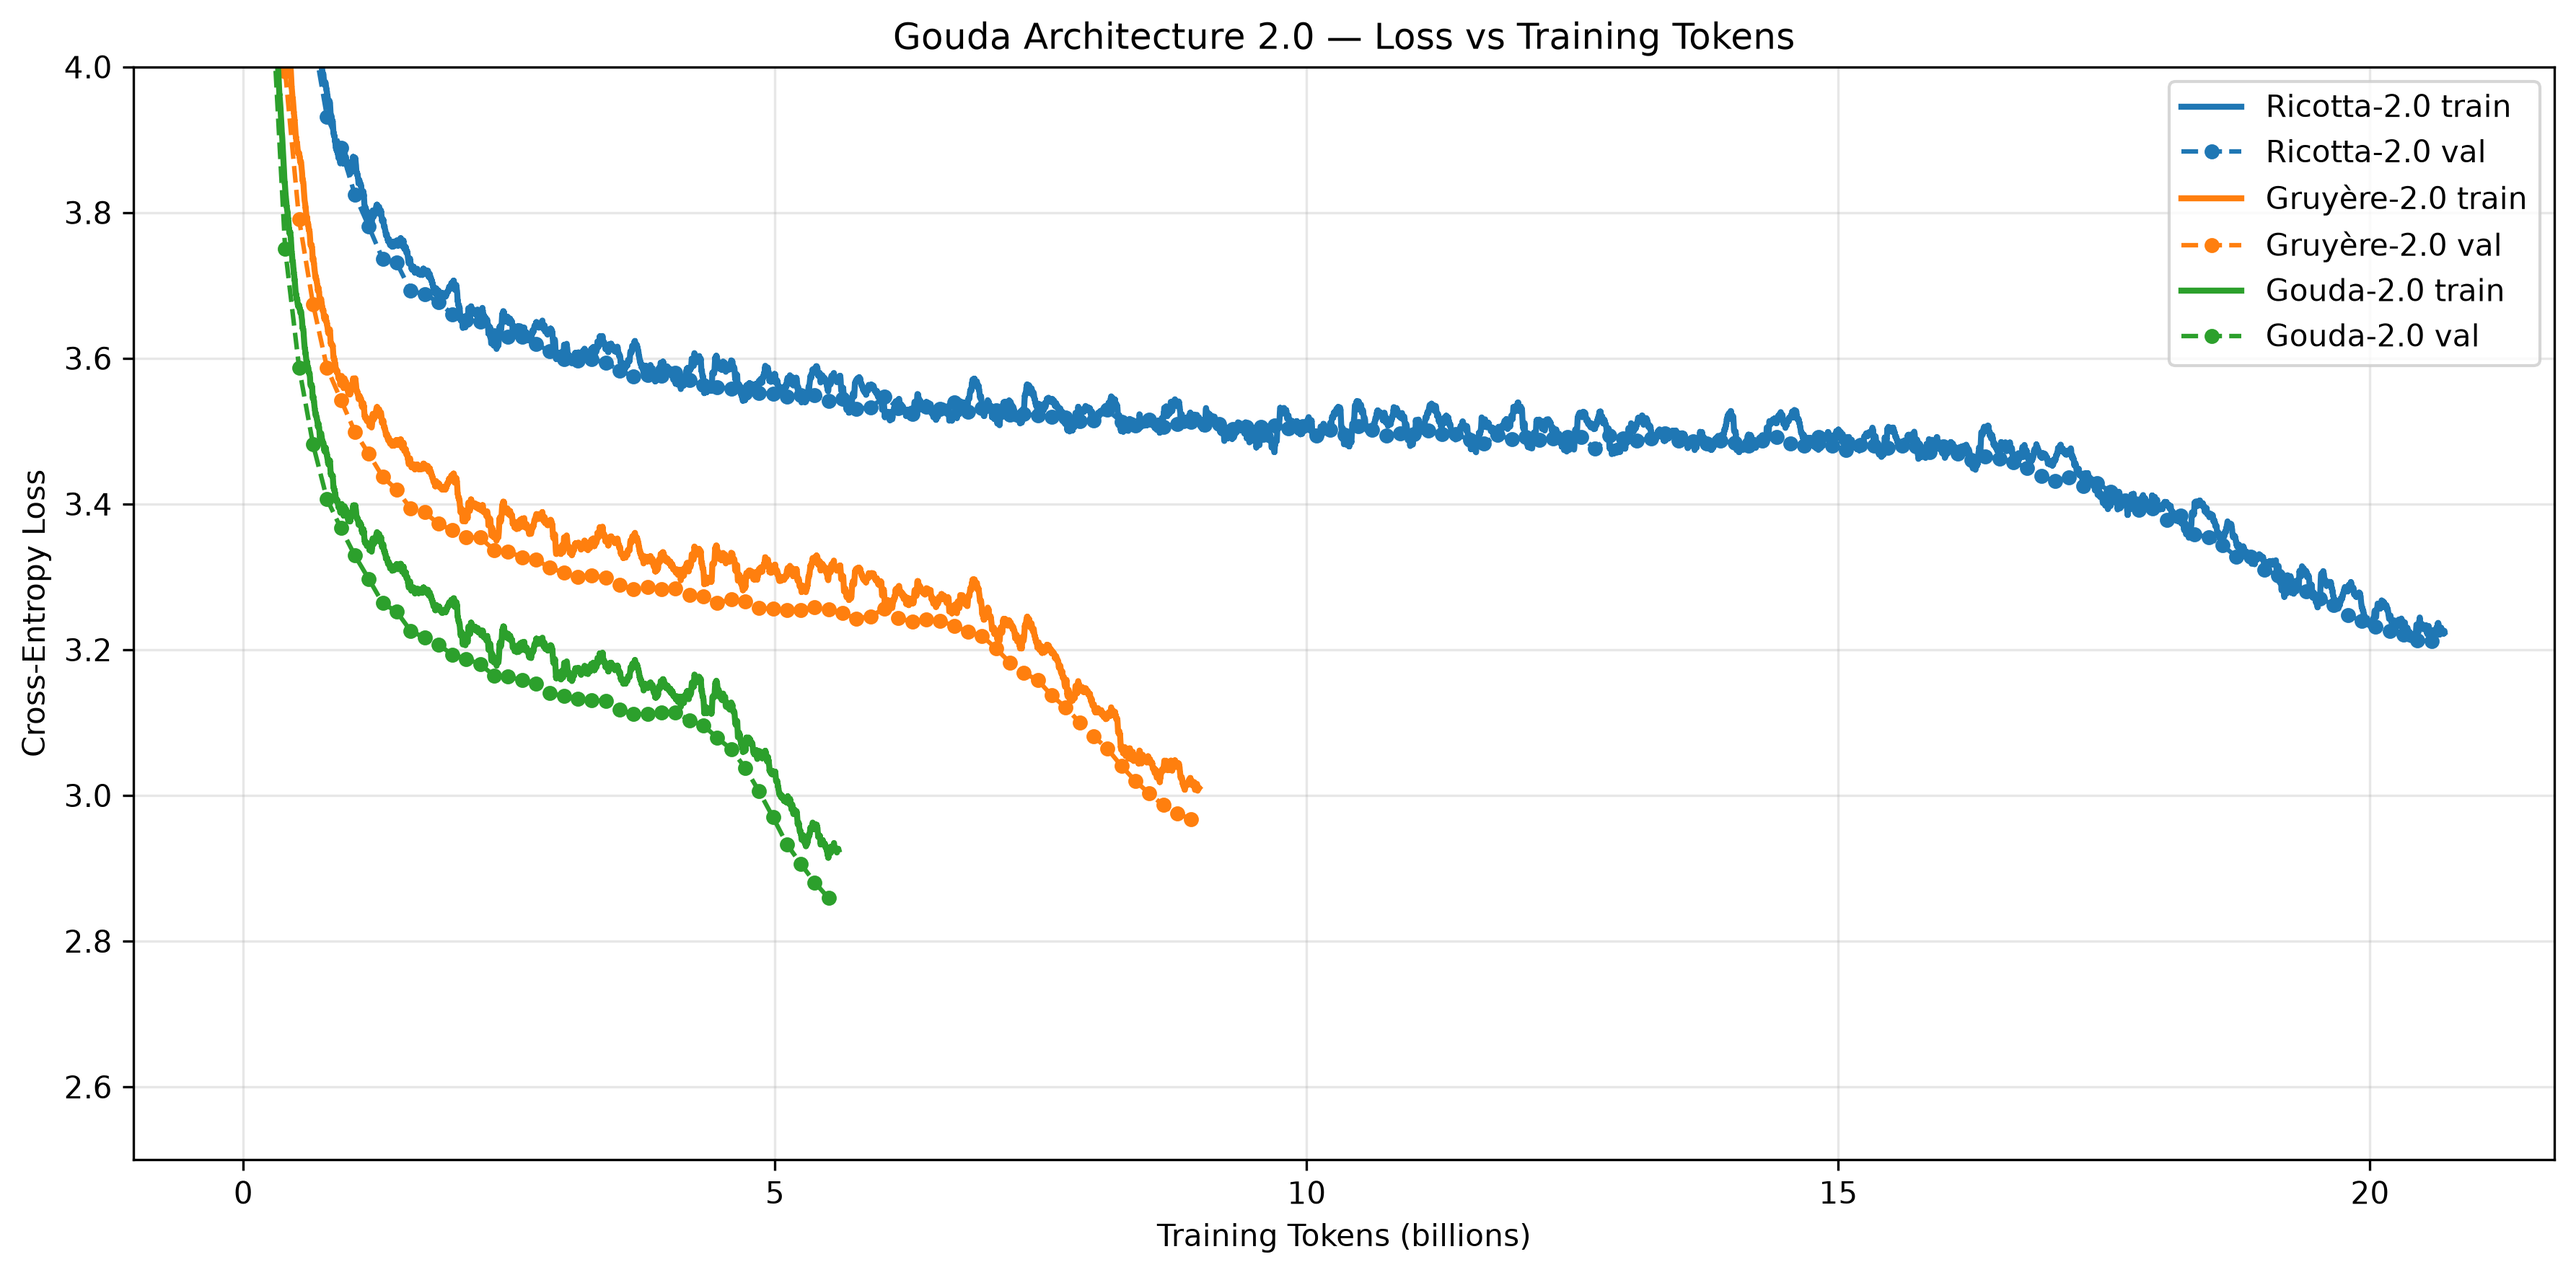
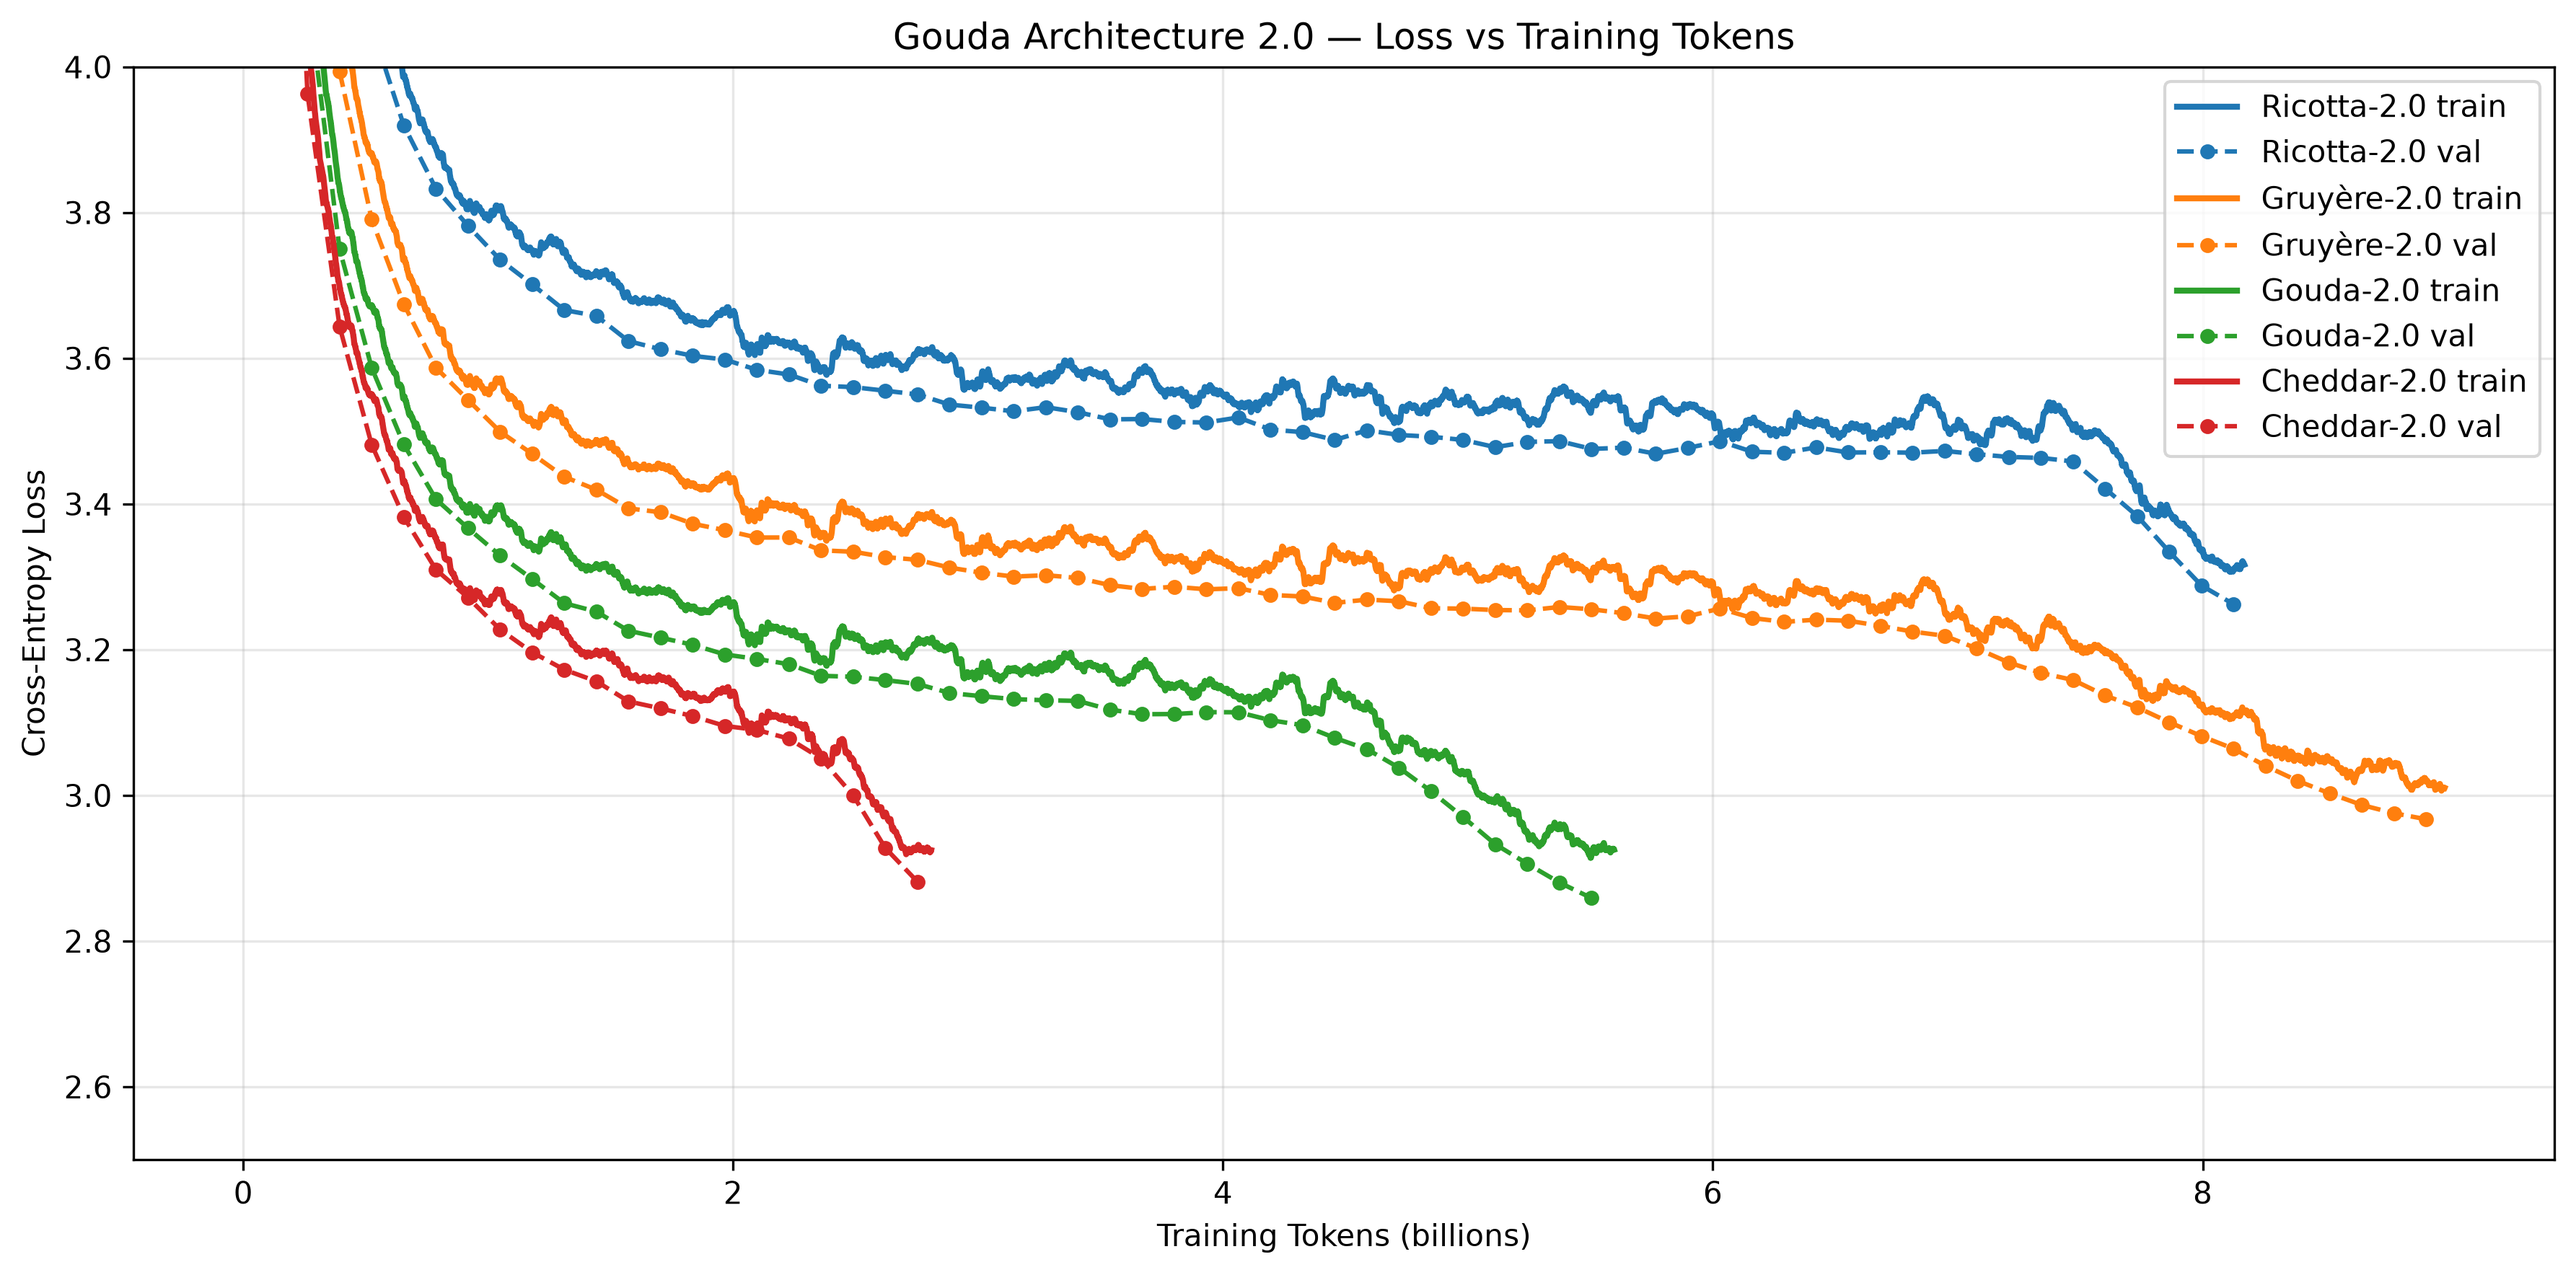
updated loss.py to include cheddar

Changed region(s): [[0.0933, 0.0311, 0.9636, 0.7155], [0.8393, 0.0622, 0.9947, 0.3422]]

diff --git a/loss.py b/loss.py
@@ -5,6 +5,7 @@ import matplotlib.pyplot as plt
 RICOTTA_LOG = 'runs/ricotta-2.0/r1-wsd10(minlr0.1)/ricotta_2_0/train.log'
 GRUYERE_LOG = 'runs/gruyere-2.0/r1/gruyere_2_0/train.log'
 GOUDA_LOG = 'runs/gouda-2.0/r1/gouda_2_0/train.log'
+CHEDDAR_LOG = 'runs/cheddar-2.0/r1/cheddar_2_0/train.log'
 OUTPUT_FILE = "loss_comparison.png"
 
 SMOOTHING_WINDOW = 100
@@ -17,6 +18,7 @@ LOGS = {
     "Ricotta-2.0": RICOTTA_LOG,
     "Gruyère-2.0": GRUYERE_LOG,
     "Gouda-2.0": GOUDA_LOG,
+    "Cheddar-2.0": CHEDDAR_LOG
 }
 
 def parse_log(log_file):
